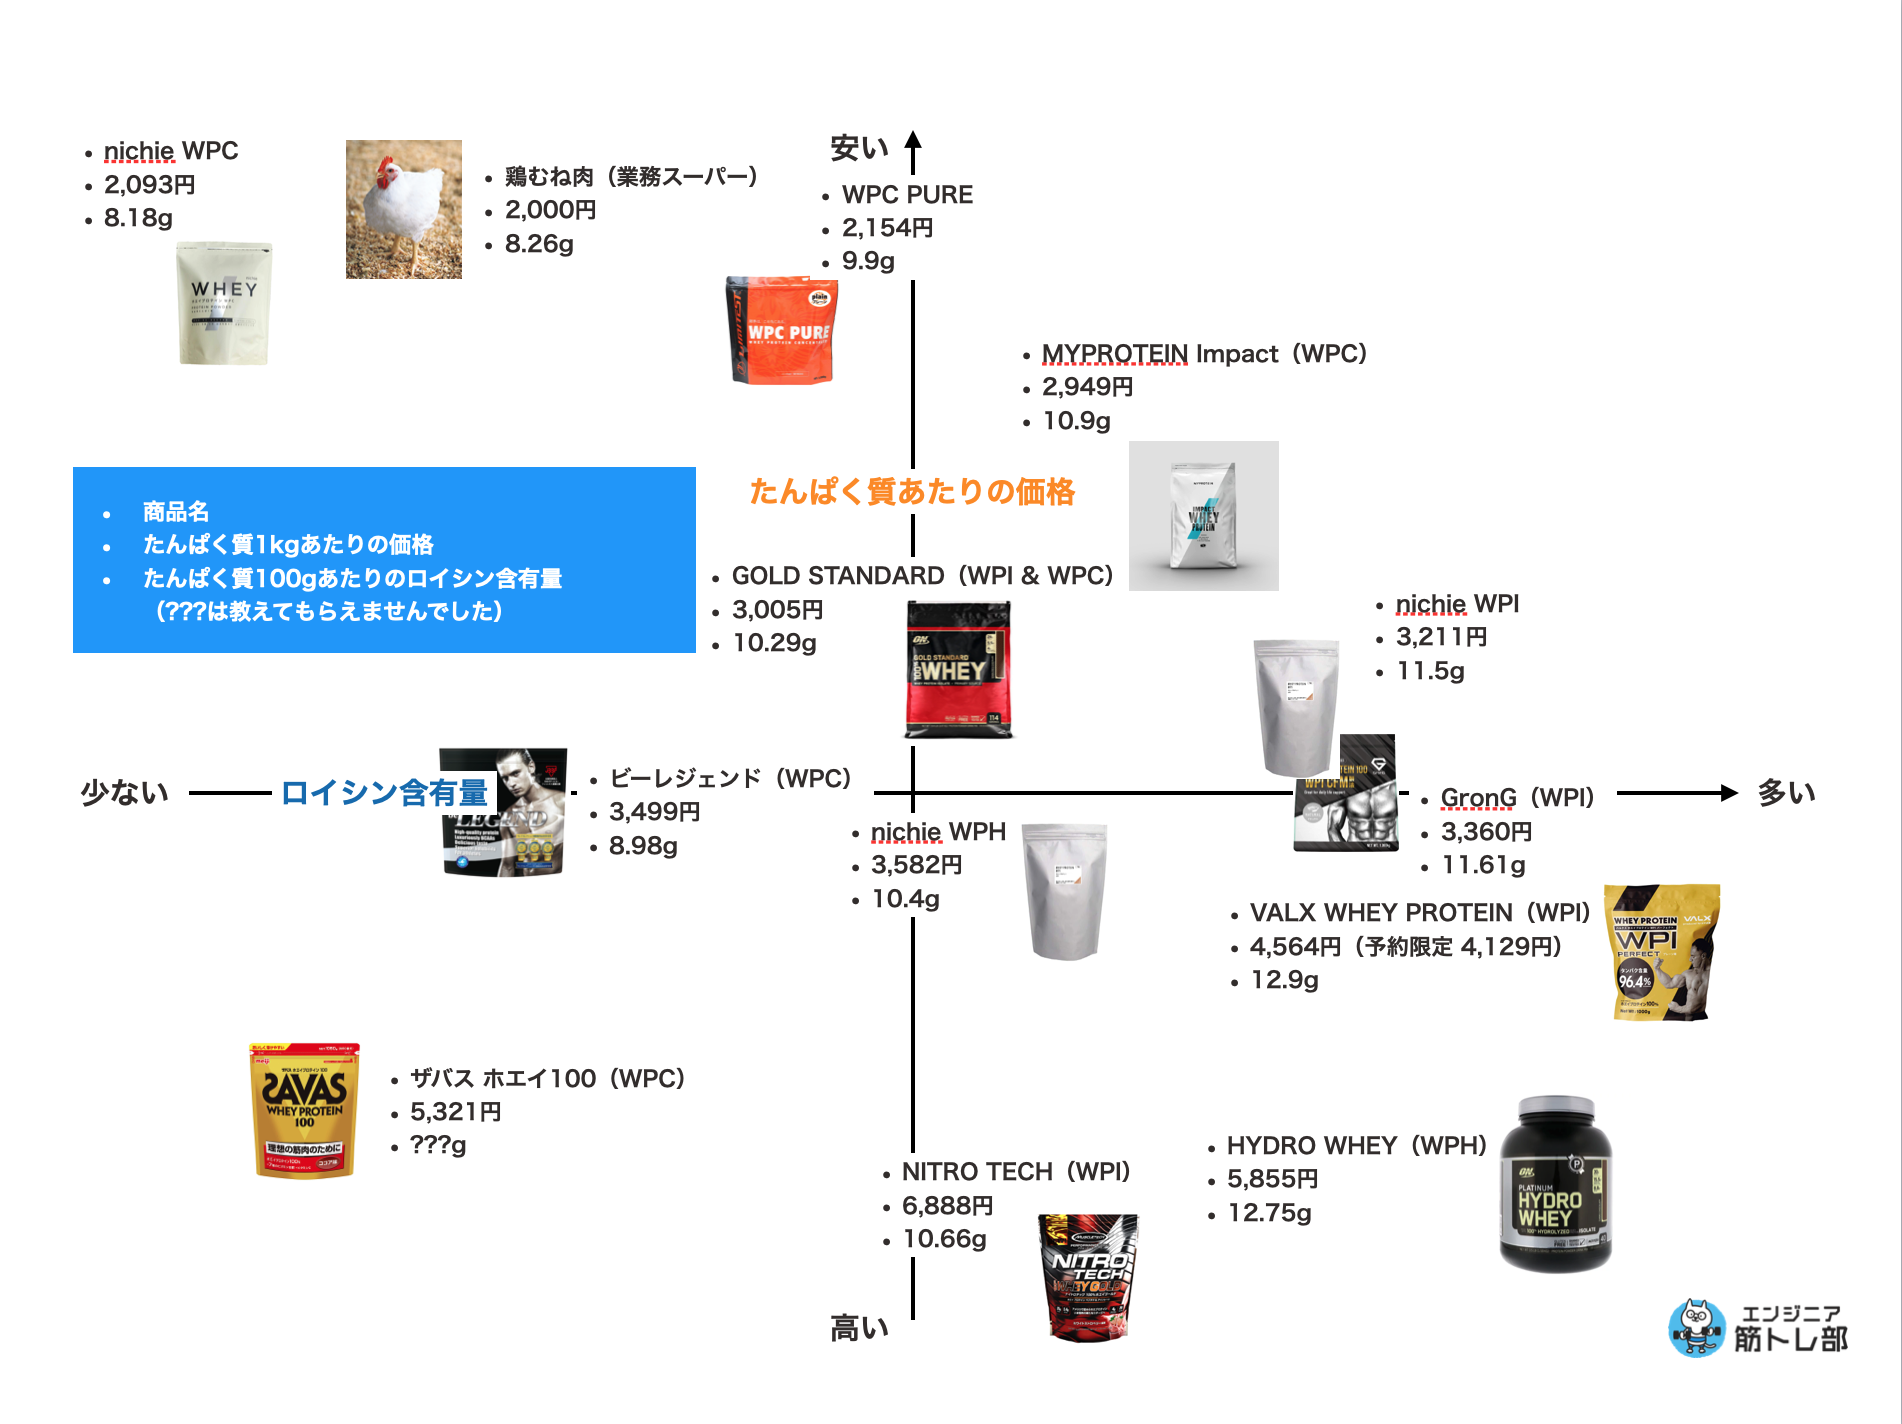
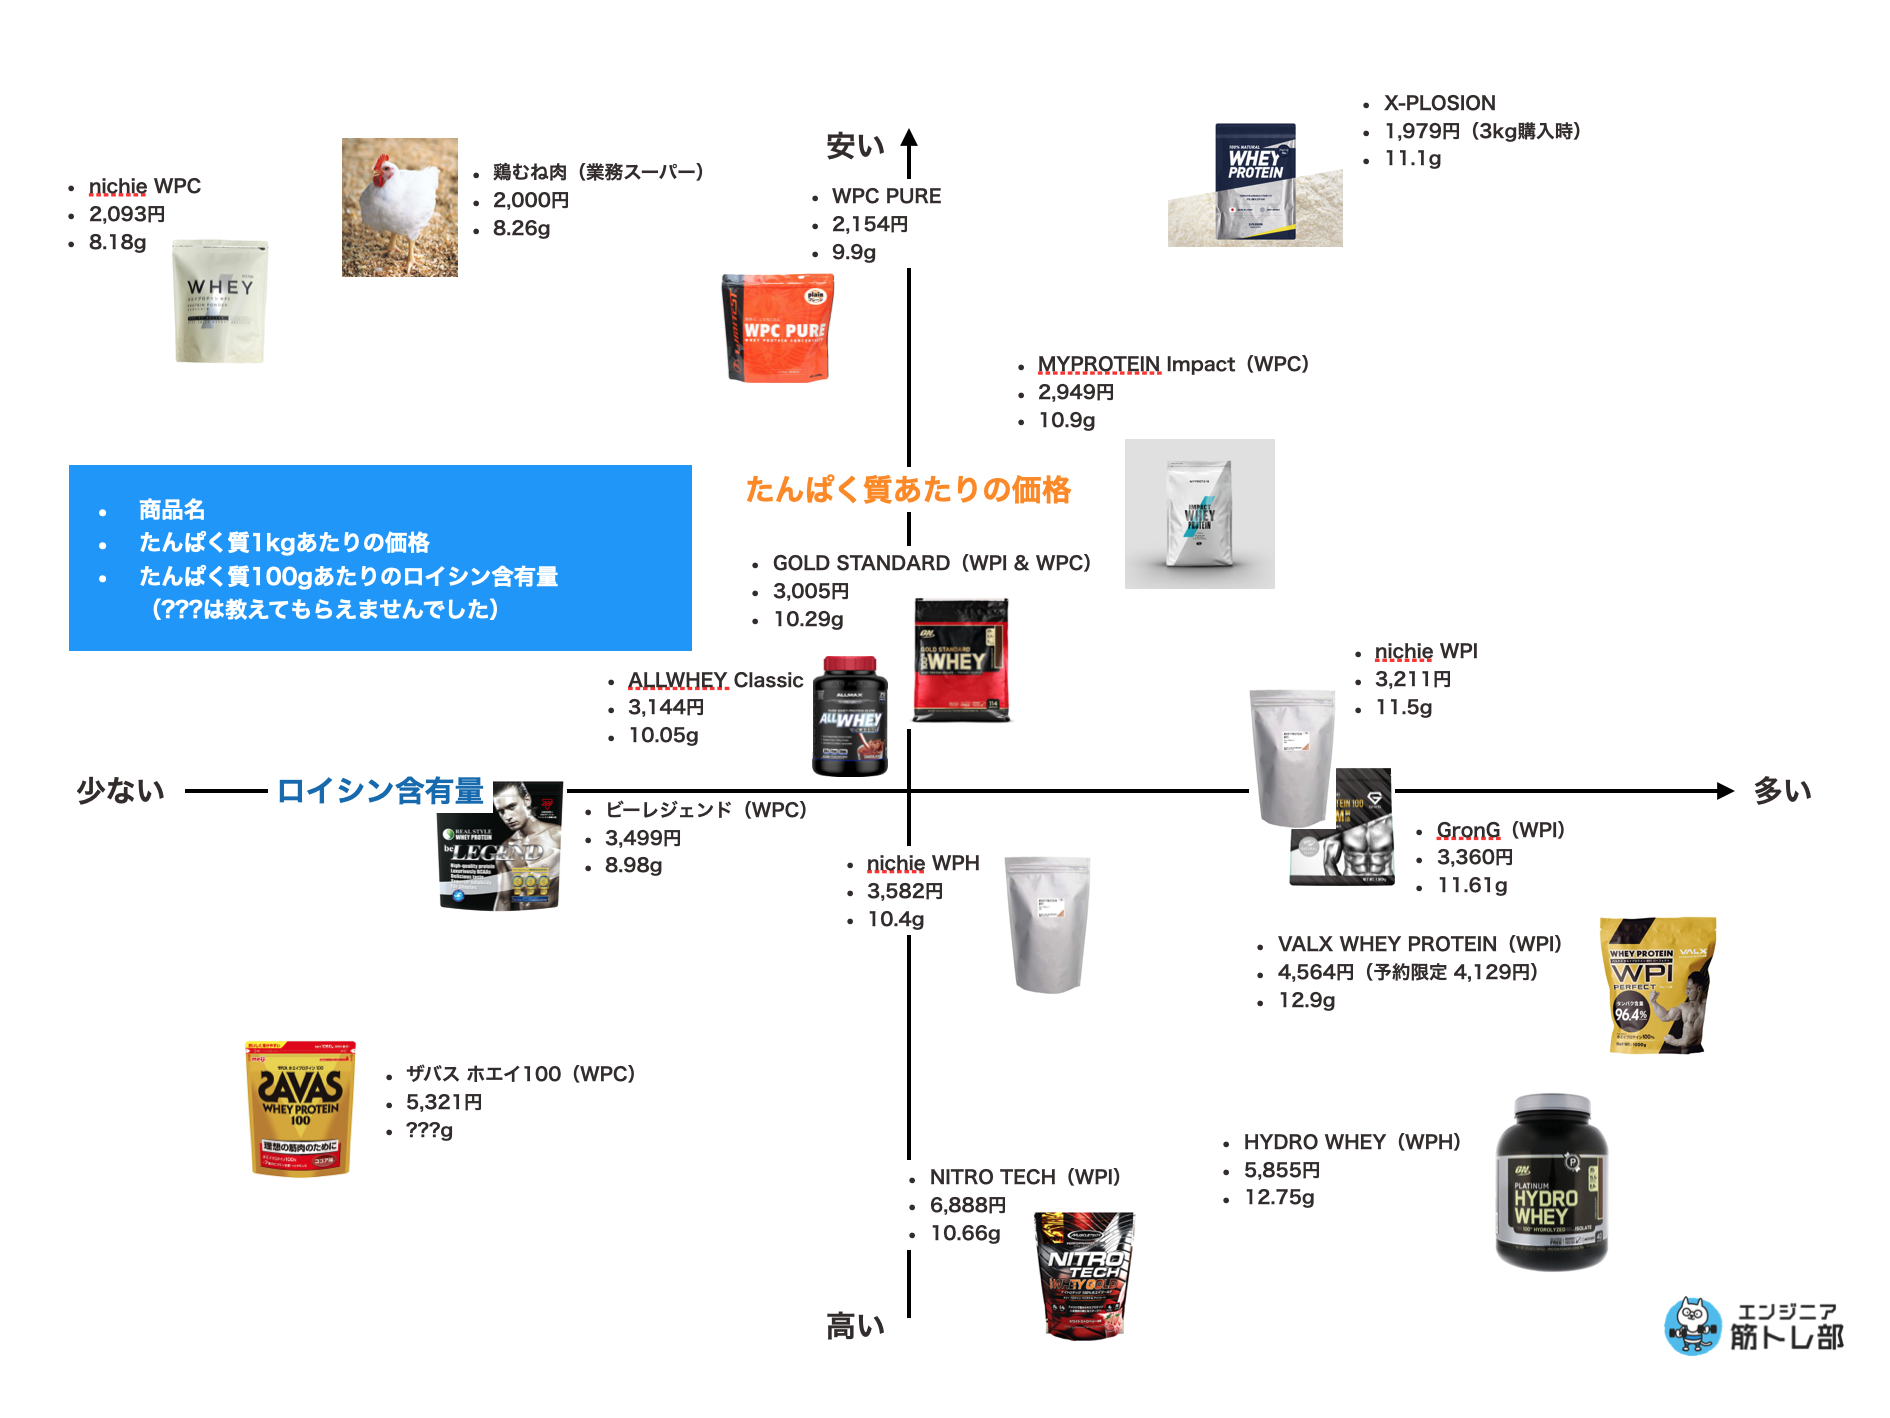
fix

diff --git a/static/css/style.css b/static/css/style.css
@@ -30,7 +30,8 @@
     margin-bottom: 20px;
 }
 
-.markdown h3 .fa {
+.markdown h3 .fa,
+.markdown h4 .fa {
   margin-right: 5px;
   color: #20B2AA;
 }
@@ -181,6 +182,9 @@
 /** 目次 */
 #TableOfContents {
   margin-bottom: 30px;
+}
+#TableOfContents .fa {
+  display: none;
 }
 #TableOfContents > ul {
   font-size: smaller;

diff --git a/content/post/2020-07-07---review_gold_standard.md b/content/post/2020-07-07---review_gold_standard.md
@@ -31,7 +31,7 @@ keywords: [ "プロテイン", "コスパ", "レビュー", "比較" ]
 
 ## ゴールドスタンダードの説明
 結論から先に申し上げると、ゴールドスタンダードは<b>「コスパと味のバランスがとても良いプロテイン」</b>です。<br>
-まずは、ゴールドスタンダードの基本情報について確認していきます。<br>
+それでは、ゴールドスタンダードの基本情報について確認していきましょう。<br>
 
 <h3><i class="fa fa-check"></i>アメリカ産</h3>
 ゴールドスタンダードはアメリカの人気サプリメントメーカーOptimum Nutrition社が作っているプロテインです。<br>
@@ -52,96 +52,30 @@ WPC・WPI・WPHをついては、<a href="https://physique-engineer.jp/post/whey
 <br>
 
 ## ゴールドスタンダードのメリット
-<h3><i class="fa fa-check"></i>コスパが良い</h3>
+### <i class="fa fa-check"></i>コスパが良い
 ここでいうコスパとは、<b>「タンパク質あたりの価格が安いこと」</b>とします。<br>
 結論から言うと、ゴールドスタンダードのタンパク質あたりの価格は<b>「安め」</b>と言えます。<br>
-以下に、各社のプロテイン毎のタンパク質1kgあたりの価格をまとめました。<br>
-調査した20種類のホエイプロテインの中で<b>6番目の安さ</b>となっています。<br>
+以下の記事で、各社のプロテイン毎のタンパク質1kgあたりの価格をまとめています。<br>
+ゴールドスタンダードは調査した20種類のホエイプロテインの中で<b>6番目の安さ</b>となっています。<br>
 <br>
 
-| ランキング | ホエイプロテイン                      | 価格（タンパク質1kgあたり） |
-|------------|---------------------------------------|-----------------------------|
-| 1          | X-PLOSION                             | 1,979円（3kg購入時）        |
-| 2          | nichie WPC                            | 2,093円                     |
-| 3          | WPC PURE                              | 2,154円                     |
-| 4          | GronG（WPC）ナチュラル                | 2,797円                     |
-| 5          | MYPROTEIN Impact（WPC）               | 2,949円                     |
-| <b>6</b>          | <b>GOLD STANDARD</b>                         | <b>3,005円</b>                     |
-| 7          | ALLWHEY Classic                       | 3,144円                     |
-| 8          | nichie WPI                            | 3,211円                     |
-| 9          | ALPRON WPC ホエイプロテイン           | 3,346円                     |
-| 10         | GronG（WPI）                          | 3,360円                     |
-| 11         | ビーレジェンド（WPC）                 | 3,499円                     |
-| 12         | nichie WPH                            | 3,582円                     |
-| 13         | Champion PURE WHEY PLUS               | 4,385円                     |
-| 14         | VALX WHEY PROTEIN（WPI）              | 4,564円                     |
-| 15         | ザバス ホエイ100（WPC）               | 5,321円                     |
-| 16         | Kentai パワーボディ100%ホエイ         | 5,797円                     |
-| 17         | HYDRO WHEY（WPH）                     | 5,855円                     |
-| 18         | NITRO TECH（WPI）                     | 6,888円                     |
-| 19         | グリコ マックスロードホエイプロテイン | 7,093円                     |
-| 20         | GOLD'S GYM CFM Whey Protein           | 8,533円                     |
+{{<a href="/post/2020-06-14---proteinmap.md">}}
 
 <br>
 
-<h3><i class="fa fa-check"></i>ロイシン含有量の割に安い</h3>
+### <i class="fa fa-check"></i>ロイシン含有量の割に安い
 また、筋肉をつけたい場合に、合わせて見なければいけないのが、<b>「タンパク質あたりのロイシン含有量」</b>です。<br>
 <b>ロイシンは筋タンパク質の合成を促すアミノ酸</b>で、筋肥大に大きな効果を示すことが分かっています。<br>
-先程コスパで見たホエイプロテインのタンパク質100gあたりのロイシン含有量を比較したものがこちらです（一部調査中のため未記載）。<br>
-調査した17種類のホエイプロテインの中で<b>13番目のロイシン含有量</b>となっています。<br>
+先程コスパで見たホエイプロテインのタンパク質100gあたりのロイシン含有量を比較したものを先程の記事でまとめています。<br>
+調査した18種類のホエイプロテインの中で<b>14番目のロイシン含有量</b>となっています。<br>
 <br>
+こう見るとロイシン含有量は少ない用に見えますが、先程の「タンパク質あたりの価格」と合わせて<b>「ロイシン1gあたりの価格」</b>を見てみると、<b>ロイシン含有量の割に安い方（8位/18種類）である</b>ことが分かると思います。<br>
 
-| ランキング | ホエイプロテイン                      | ロイシン含有量g（タンパク質100gあたり）|
-|------------|---------------------------------------|----------------------------------------|
-| 1          | VALX WHEY PROTEIN（WPI）              | 12.9g                                  |
-| 2          | HYDRO WHEY（WPH）                     | 12.75g                                 |
-| 3          | GronG（WPI）                          | 11.61g                                 |
-| 4          | nichie WPI                            | 11.5g                                  |
-| 5          | Champion PURE WHEY PLUS               | 11.34g                                 |
-| 6          | Kentai パワーボディ100%ホエイ         | 11.29g                                 |
-| 7          | X-PLOSION                             | 11.1g                                  |
-| 8          | MYPROTEIN Impact（WPC）               | 10.9g                                  |
-| 9          | NITRO TECH（WPI）                     | 10.66g                                 |
-| 10         | GronG（WPC）                          | 10.62g                                 |
-| 11         | ALPRON WPC ホエイプロテイン           | 10.57g                                 |
-| 12         | nichie WPH                            | 10.4g                                  |
-| <b>13</b>         | <b>GOLD STANDARD</b>                         | <b>10.29g</b>                                 |
-| 14         | ALLWHEY Classic                       | 10.05g                                 |
-| 15         | WPC PURE                              | 9.9g                                   |
-| 16         | ビーレジェンド（WPC）                 | 8.98g                                  |
-| 17         | nichie WPC                            | 8.18g                                  |
-
-<br>
-こう見るとロイシン含有量は少ない用に見えますが、先程の「タンパク質あたりの価格」と合わせて<b>「ロイシン1gあたりの価格」</b>を見てみると、<b>ロイシン含有量の割に安い方である</b>ことが分かると思います。<br>
-<br>
-
-| ランキング | ホエイプロテイン                      | 価格（ロイシン1gあたり）|
-|------------|---------------------------------------|----------------------------------------|
-| 1          | X-PLOSION                             | 17.83円                                |
-| 2          | WPC PURE                              | 21.76円                                |
-| 3          | nichie WPC                            | 25.59円                                |
-| 4          | GronG（WPC）                          | 26.34円                                |
-| 5          | MYPROTEIN Impact（WPC）               | 27.06円                                |
-| 6          | nichie WPI                            | 27.92円                                |
-| 7          | GronG（WPI）                          | 28.94円                                |
-| <b>8</b>         | <b>GOLD STANDARD</b>                         | <b>29.20円</b>                                 |
-| 9          | ALLWHEY Classic                       | 31.28円                                |
-| 10         | ALPRON WPC ホエイプロテイン           | 31.66円                                |
-| 11         | nichie WPH                            | 34.44円                                |
-| 12         | VALX WHEY PROTEIN（WPI）              | 35.38円                                |
-| 13         | Champion PURE WHEY PLUS               | 38.67円                                |
-| 14         | ビーレジェンド（WPC）                 | 38.96円                                |
-| 15         | HYDRO WHEY（WPH）                     | 45.92円                                |
-| 16         | Kentai パワーボディ100%ホエイ         | 51.35円                                |
-| 17         | NITRO TECH（WPI）                     | 64.62円                                |
-
-<br>
-
-<h3><i class="fa fa-check"></i>美味しい</h3>
+### <i class="fa fa-check"></i>美味しい
 これは主観になりますが、味が美味しいのが選ばれている大きな要因の一つとしてあると思います。<br>
 コスパと味のバランスが非常に優れたプロテインと言えるでしょう。<br>
 
-<h3><i class="fa fa-check"></i>まとめ買いができる</h3>
+### <i class="fa fa-check"></i>まとめ買いができる
 ゴールドスタンダードは最大4.54kgという単位で購入することができます。<br>
 1杯が30.4gなので、一袋あたり149杯分、一日3杯飲んでもおよそ50日分です。<br>
 <br>
